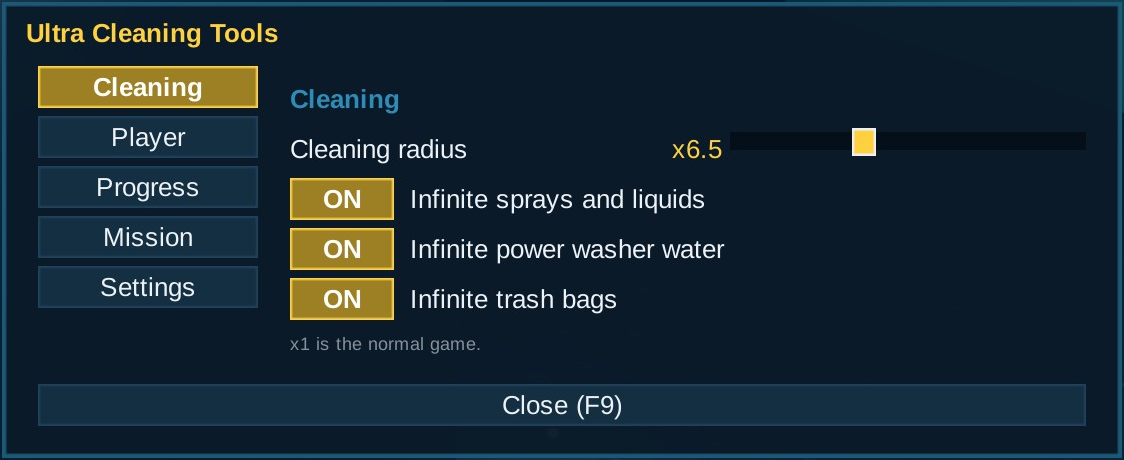
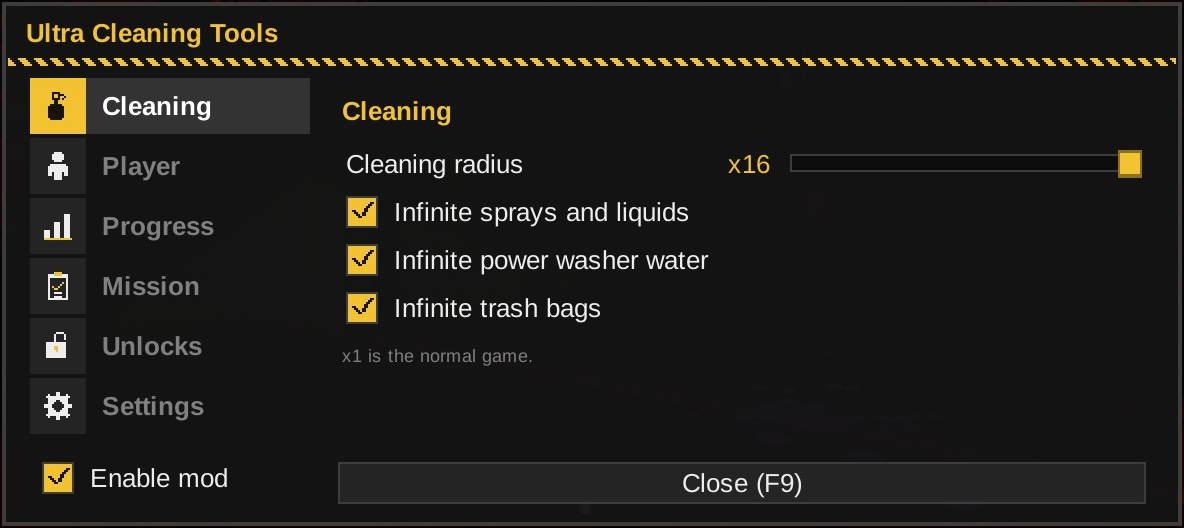
UltraCleaningTools 4.3.1: intro loading screen fix, unlocks tab, cleaner sense, new look

diff --git a/CrimeSceneCleaner/UltraCleaningTools/README.md b/CrimeSceneCleaner/UltraCleaningTools/README.md
@@ -13,11 +13,16 @@ Bigger cleaning area, sprays and liquids never run out, infinite power washer wa
 - Sprays & liquids never run out
 - Infinite washer water - backpack too
 - Infinite trash bag capacity
+- Infinite flashlight battery
+- Cleaner sense (Q) never expires and has no cooldown
 - Movement speed multiplier
 - Add or remove skill and hazard points
 - Money and XP multiplier
 - Freeze the mission timer
 - Never fail lockpicking or hacking
+- Abandon the mission from the menu
+- Unlocks tab: every perk and every skin with its own checkbox, plus unlock all / reset all
+- Enable mod switch in the footer
 
 ## 🎮 Controls
 | Input | Action |
@@ -25,18 +30,19 @@ Bigger cleaning area, sprays and liquids never run out, infinite power washer wa
 | F9 / L3+R3 | open and close the menu (keyboard key set by `MenuKey` in `UserData/MelonPreferences.cfg`, any Unity KeyCode name) |
 | Left stick or arrows | move between options |
 | A | select |
-| B | close |
+| B | collapse the tabs, then close |
 | LB / RB | change tab |
 | Left / right | adjust sliders |
 
-Your character stays put while the menu is open. Window position is remembered.
+Click the open tab to collapse the menu to the tab column. Your character stays put while the menu is open. Window position, last tab and collapsed state are remembered.
 
 ## 📸 Screenshots
 ![cleaning](screenshots/01-cleaning.png)
 ![player](screenshots/02-player.png)
 ![progress](screenshots/03-progress.png)
 ![mission](screenshots/04-mission.png)
-![settings](screenshots/05-settings.png)
+![unlocks](screenshots/05-unlocks.png)
+![settings](screenshots/06-settings.png)
 
 ## 🌍 Translating
 Texts live in `I18n.cs`, one dictionary per language keyed by the English string. To add a
